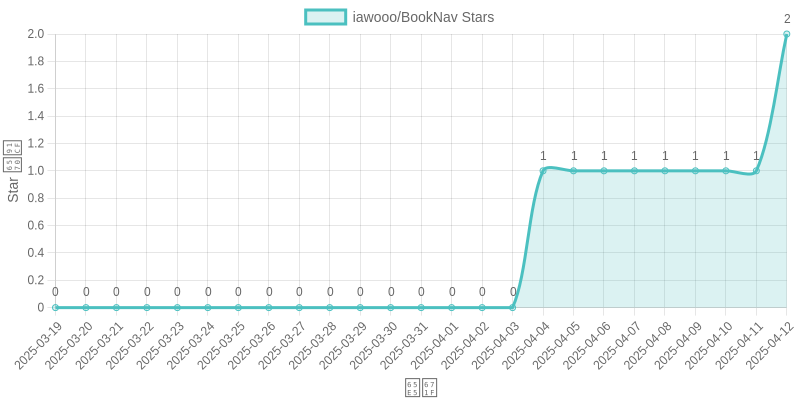
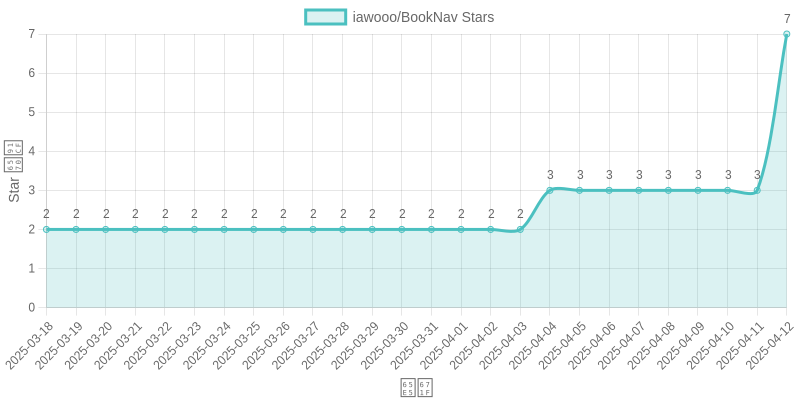
Update star charts and README

Changed region(s): [[0.0, 0.12, 1.0, 0.78], [0.0, 0.81, 0.9688, 0.99], [0.0312, 0.06, 0.875, 0.24]]

diff --git a/README.md b/README.md
@@ -10,6 +10,9 @@ A collection of star history charts for my GitHub projects, automatically update
 ### ctt
 [![ctt Star Chart](images/ctt_star_chart.png)](https://github.com/iawooo/ctt)
 
+### cftc
+[![cftc Star Chart](images/cftc_star_chart.png)](https://github.com/iawooo/cftc)
+
 ## License
 This project is licensed under the MIT License. See the [LICENSE](LICENSE) file for details.
 
